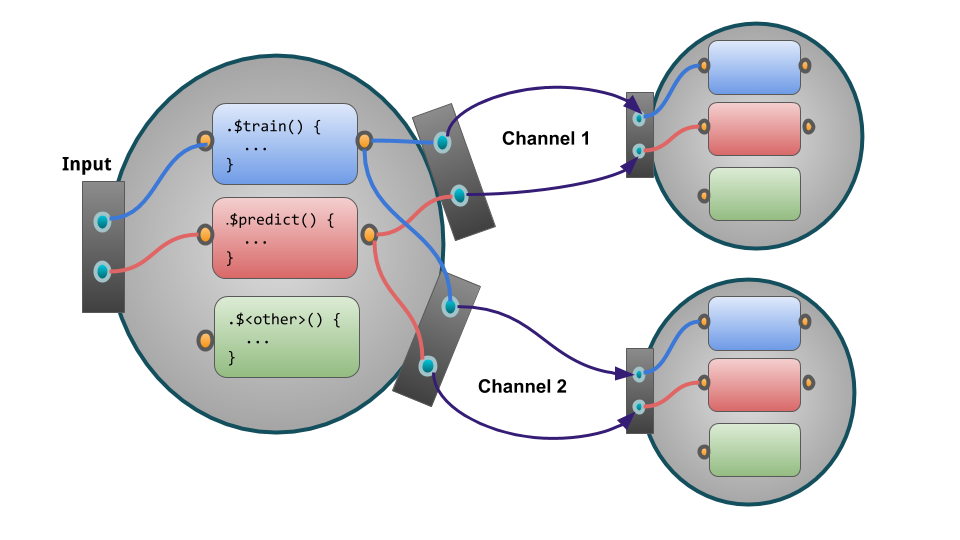
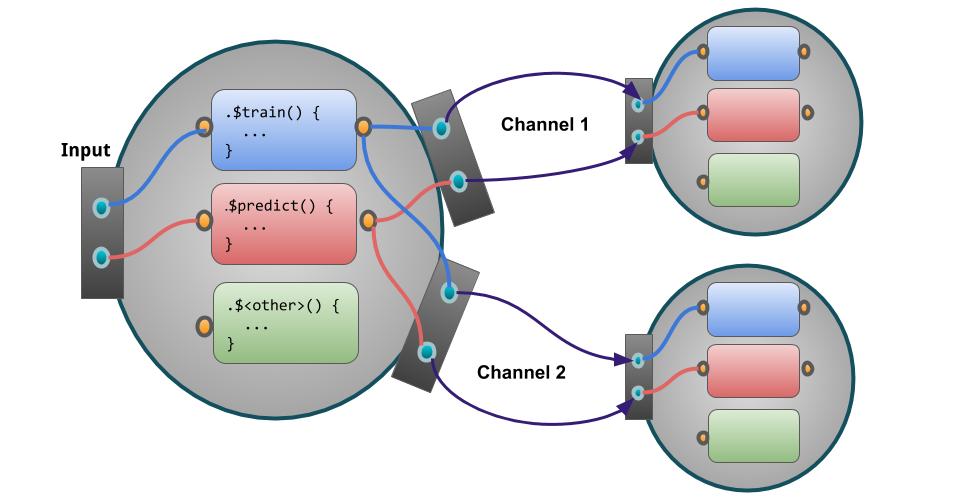
second revision

diff --git a/mlr3pipelines/mlr3pipelinescheatsheet.tex b/mlr3pipelines/mlr3pipelinescheatsheet.tex
@@ -76,13 +76,19 @@
 				\begin{minipage}{.98\textwidth}
 					\parbox[t][\columnheight]{\textwidth}{
 						\begin{myblock}{Intro}
-              The mlr3pipelines package is an extension for the \href{https://github.com/mlr-org/mlr3}{mlr3} package and provides \codeinline{PipeOp}s (pipeline operators) which can be connected to a \codeinline{Graph}.
+              The mlr3pipelines package is an extension for the \href{https://github.com/mlr-org/mlr3}{mlr3} package and provides \codeinline{PipeOp}s (pipeline operators) which can be connected within a \codeinline{Graph}.
             \end{myblock}
 						\begin{myblock}{PipeOps}
-              A \codeinline{PipeOp} represents transformative operations on its input leading to its output but behaves differently during ``training'' and ``prediction''. During training, the \codeinline{PipeOp} stores the transformation appied to the training data. This information is then used during the prediction.\\
+              A \codeinline{PipeOp} represents transformative operations on its input leading to its output but behaves differently during ``training'' and ``prediction''. During training, the \codeinline{PipeOp} stores the transformation applied to the training data as a state. This state is then used during the prediction.\\
               \ \\
-              \includegraphics[width=\textwidth]{img/po_viz.png}
-              Important \codeinline{PipeOp}s:
+              \includegraphics[width=\textwidth]{img/po.png}
+              \ \\
+              Construction via a \codeinline{.key}, e.g.: \codeinline{pca = \textbf{po}("pca")}\\
+              \ \\
+              Important methods and slots:\\
+              \codeinline{\$\textbf{train}()}, \codeinline{\$\textbf{predict}()}, \codeinline{\$\textbf{state}}
+						\end{myblock}
+            \begin{myblock}{Important PipeOps}
               \begin{itemize}
                 \item Data Transformer: \codeinline{PipeOpPCA}
                 \item Feature Selection: \codeinline{PipeOpFilter}
@@ -94,16 +100,7 @@
                 \item Ensembles: \codeinline{PipeOpLearnerCV}
               \end{itemize}
               \ \\
-              Full list: \codeinline{as.data.table(mlr\_pipeops)}\\
-              \ \\
-              Construction via a \codeinline{.key}, e.g.: \codeinline{pca = \textbf{po}("pca")}\\
-              \ \\
-              Important methods and slots:
-              \begin{itemize}
-                \item \codeinline{\$\textbf{train}()} %takes a list of input arguments and turns them into a list of outputs while saving a state.
-                \item \codeinline{\$\textbf{predict}()} %takes a list of input arguments and turns them into a list of outputs relying on the saved state.
-                \item \codeinline{\$\textbf{state}} %contains the trained ``model'' wich is utilized during predicton
-              \end{itemize}
+              Full list: \codeinline{as.data.table(mlr\_pipeops)}
 						\end{myblock}
 						\vfill}
 				\end{minipage}
@@ -115,44 +112,29 @@
 					\parbox[t][\columnheight]{\textwidth}{
 						\begin{myblock}{Graphs}
               A \codeinline{Graph} connects \codeinline{PipeOp}s with edges mandating how data should be flowing along them. A \codeinline{Graph} itself has a \codeinline{\$train()} and \codeinline{\$predict()} method that accept data and propagate this data through the network of \codeinline{PipeOp}s. The return value corresponds to the output of the \codeinline{PipeOp} outputs that are not connected to other \codeinline{PipeOp}s.\\
-              \ \\
-              %\includegraphics[width=\textwidth]{img/po_multi_viz.png}
+              \includegraphics[width=\textwidth]{img/po_multi_viz.png}
               The \codeinline{\%>>\%} operator takes either a \codeinline{PipeOp} or a \codeinline{Graph} on each of its sides and connects all left-hand outputs to the right-hand inputs:
               \begin{codebox}
-                gr = po("pca") \textbf{\%>>\%} lrn("classif.rpart")
+                gr = po("pca") \textbf{\%>>\%} po(lrn("classif.rpart"))
               \end{codebox}
               \ \\
-              Printing and plotting the \codeinline{Graph}:
-              \begin{codeboxmultiline}[width=13cm]
-                \textbf{print}(gr)\\
-                gr\$\textbf{plot}(html = TRUE)
-              \end{codeboxmultiline}
+              Printing: \codeinline{\textbf{print}(gr)}\\
+              Plotting: \codeinline{gr\$\textbf{plot}(html = TRUE)}\\
               \ \\
               %Assessing the \codeinline{PipeOp}s: \codeinline{gr\$\textbf{pipeops}}\\
-              %\ \\
-              To have full control over the edges, construct an empty \codeinline{Graph}, add \codeinline{PipeOp}s and connect them manually via their \codeinline{\$id}:
-              \begin{codeboxmultiline}[width=20cm]
+              For full control, construct an empty \codeinline{Graph}, add \codeinline{PipeOp}s and connect them via their \codeinline{\$id}:
+              \begin{codeboxmultiline}[width=22cm]
                 gr = \textbf{Graph}\$new()\\
                 gr\$\textbf{add\_pipeop}(po("pca"))\\
-                gr\$\textbf{add\_pipeop}(lrn("classif.rpart"))
+                gr\$\textbf{add\_pipeop}(po(lrn("classif.rpart")))\\
                 gr\$\textbf{add\_edge}("pca", "classif.rpart")
               \end{codeboxmultiline}
 						\end{myblock}
             \begin{myblock}{Learners and Graphs}
-              Any \codeinline{Learner} can be wrapped in a \codeinline{PipeOp}, more precisely a \codeinline{PipeOpLearner}, e.g.:
-              \begin{codebox}
-                po(lrn("classif.rpart"))
-              \end{codebox}
+              Wrap any \codeinline{Learner} in a \codeinline{PipeOpLearner}, e.g.: \codeinline{po(lrn("classif.rpart"))}\\
+              Wrap any \codeinline{Graph} in a \codeinline{GraphLearner}: \codeinline{grl = GraphLearner\$new(gr)}\\
               \ \\
-              Analogously, any \codeinline{Graph} can be wrappend in a \codeinline{Learner}, resulting in a \codeinline{GraphLearner}:
-              \begin{codebox}
-                grl = GraphLearner\$new(gr)
-              \end{codebox}
-              \ \\
-              When predicting from a \codeinline{Graph} you have to set the predict type of the \codeinline{GraphLearner} explicitly, i.e.:
-              \begin{codebox}
-                grl\$predict\_type = "prob"
-              \end{codebox}
+              Predicting from a \codeinline{GraphLearner} requires to set the predict type, e.g.: \codeinline{grl\$predict\_type = "prob"}\\
             \end{myblock}
 						\vfill}
 				\end{minipage}
@@ -164,7 +146,7 @@
 					\parbox[t][\columnheight]{\textwidth}{
             \begin{myblock}{Nonlinear Graphs}
               \codeinline{\textbf{gunion}()} arranges \codeinline{PipeOp}s or \codeinline{Graph}s next to each other in a disjoint graph union. \\
-              \ \\
+              \includegraphics[width=\textwidth]{img/gunion.png}
               This allows for splitting a node into several paths, i.e., \textbf{branching} (where only one path will be executed):
               \begin{codeboxexample}
 						    {\footnotesize
@@ -173,26 +155,27 @@
                   \hspace*{1ex} gunion(list(po("pca"), po("scale"))) \%>>\%\\
                   \hspace*{1ex} po("unbranch", options = choices)\\
                   gr\$plot(html = TRUE)\\
-                  \ \\
-                  \# set the "pca" path active:
+                  \# set the "pca" path active:\\
                   gr\$param\_set\$values\$branch.selection = "pca"}
 					      \end{codeboxexample}
               \ \\
               \codeinline{PipeOpFeatureUnion} aggregates features from all input tasks into a single \codeinline{Task}:
               \begin{codeboxexample}
 						    {\footnotesize
-                  task = tsk("iris")\\
+                  %task = tsk("iris")\\
                   gr = gunion(list(po("nop"), po("pca"))) \%>>\%\\
-                  \hspace*{1ex} po("featureunion")\\
-                  gr\$train(task)}
+                  \hspace*{1ex} po("featureunion")}
+                  %gr\$train(task)}
               \end{codeboxexample}
               \ \\
               \codeinline{\textbf{greplicate}()} creates a new \codeinline{Graph} containing \codeinline{n} copies of the input (\codeinline{PipeOp} or \codeinline{Graph}). \\
               \ \\
-              Together with \codeinline{PipeOpSubsample} this straightforward allows for \textbf{bagging}:
+              \includegraphics[width=\textwidth]{img/greplicate.png}
+              \ \\
+              Together with \codeinline{PipeOpSubsample} this straightforward allows for, e.g., \textbf{bagging}:
               \begin{codeboxexample}
 						    {\footnotesize
-                  pr = po("subsample") \%>>\% lrn("classif.rpart") \\
+                  pr = po("subsample") \%>>\% po(lrn("classif.rpart")) \\
                   bagging = greplicate(pr, n = 10) \%>>\%\\
                   \hspace*{1ex} po("classifavg", innum = 10)\\
                   bagging\$plot(html = TRUE)}
@@ -207,42 +190,41 @@
 				\begin{minipage}{.98\textwidth}
 					\parbox[t][\columnheight]{\textwidth}{
             \begin{myblock}{Hyperparameters}
-              mlr3pipelines relies on the paradox package to provide parameters that can modify a \codeinline{PipeOp}'s behavior. To inspect the parameters see the \codeinline{\$param\_set}, e.g., \codeinline{po("pca")\$\textbf{param\_set}}\\
+              mlr3pipelines relies on the paradox package to provide parameters that can modify a \codeinline{PipeOp}'s behavior. To inspect the parameters see the \codeinline{\$param\_set}, e.g., \codeinline{po("pca")\$\textbf{param\_set}}.\\
               \ \\
               Access the \codeinline{\$param\_set\$values} slot to set or retrieve a parameter, or specify \codeinline{param\_vals} during construction:
               \begin{codeboxmultiline}[width=25cm]
                 pca = po("pca") \\
-                pca\$param\_set\$\textbf{values} = list(scale = TRUE) \\
-                po("pca", \textbf{param\_vals} = list(scale = TRUE)
+                pca\$param\_set\$\textbf{values} = list(scale. = TRUE) \\
+                po("pca", \textbf{param\_vals} = list(scale. = TRUE))
               \end{codeboxmultiline}
               \ \\
               In a \codeinline{Graph}, the parameters of all \codeinline{PipeOp}s are collected. Both \codeinline{PipeOpLearner} and \codeinline{GraphLearner} preserve parameters of the objects they encapsulate.
             \end{myblock}
             \begin{myblock}{Tuning}
-              Construct a \codeinline{TuningInstance} consisting of a \codeinline{Task}, \codeinline{Learner}, \codeinline{Resampling} method, \codeinline{ParamSet} for the hyperparameters, \codeinline{Measure} as a performance evaluator, and a \codeinline{Terminator} as a stop criterion (see also \href{FIXME:CheatsheetLink}{mlr3tuning}):
+              Done as with any other \codeinline{Learner} (see \href{FIXME:CheatsheetLink}{mlr3tuning}), e.g., nested resampling using an \codeinline{AutoTuner}:
               \begin{codeboxexample}
 						  {\footnotesize
                 task = tsk("iris")\\
-                gr = po("pca") \%»\% lrn("classif.rpart")\\
+                gr = po("pca") \%>>\% po(lrn("classif.rpart"))\\
                 grl = GraphLearner\$new(gr)\\
                 \ \\
-                ps\_tune = ParamSet\$new(list(\\
+                resampling\_inner = rsmp("holdout")\\
+                measures = msr("classif.ce")\\
+                tune\_ps = ParamSet\$new(list(\\
+                \hspace*{1ex} ParamInt\$new("pca.rank.",\\
+                \hspace*{2ex} lower = 1, upper = 4),\\
                 \hspace*{1ex} ParamDbl\$new("classif.rpart.cp",\\
                 \hspace*{2ex} lower = 0, upper = 0.05)\\
                 ))\\
+                terminator = term("evals", n\_evals = 20)\\
+                tuner = tnr("grid\_search", resolution = 5)\\
                 \ \\
-                instance = TuningInstance\$new(\\
-                \hspace*{1ex} task = task,\\
-                \hspace*{1ex} learner = grl,\\
-                \hspace*{1ex} resampling = rsmp("holdout"),\\
-                \hspace*{1ex} measures = msr("classif.ce"),\\
-                \hspace*{1ex} param\_set = ps\_tune,\\
-                \hspace*{1ex} terminator = term("evals", n\_evals = 10)\\
-                ) \\
+                at = AutoTuner\$new(grl, resampling\_inner,\\
+                \hspace*{1ex} measures, tune\_ps, terminator, tuner)\\
                 \ \\
-                tuner = TunerRandomSearch\$new()\\
-                tuner\$tune(instance)\\
-                instance\$result}
+                resampling\_outer = rsmp("cv", folds = 2)\\
+                rr = resample(task, at, resampling\_outer)}
 					    \end{codeboxexample}
             \end{myblock}
 						\vfill}
